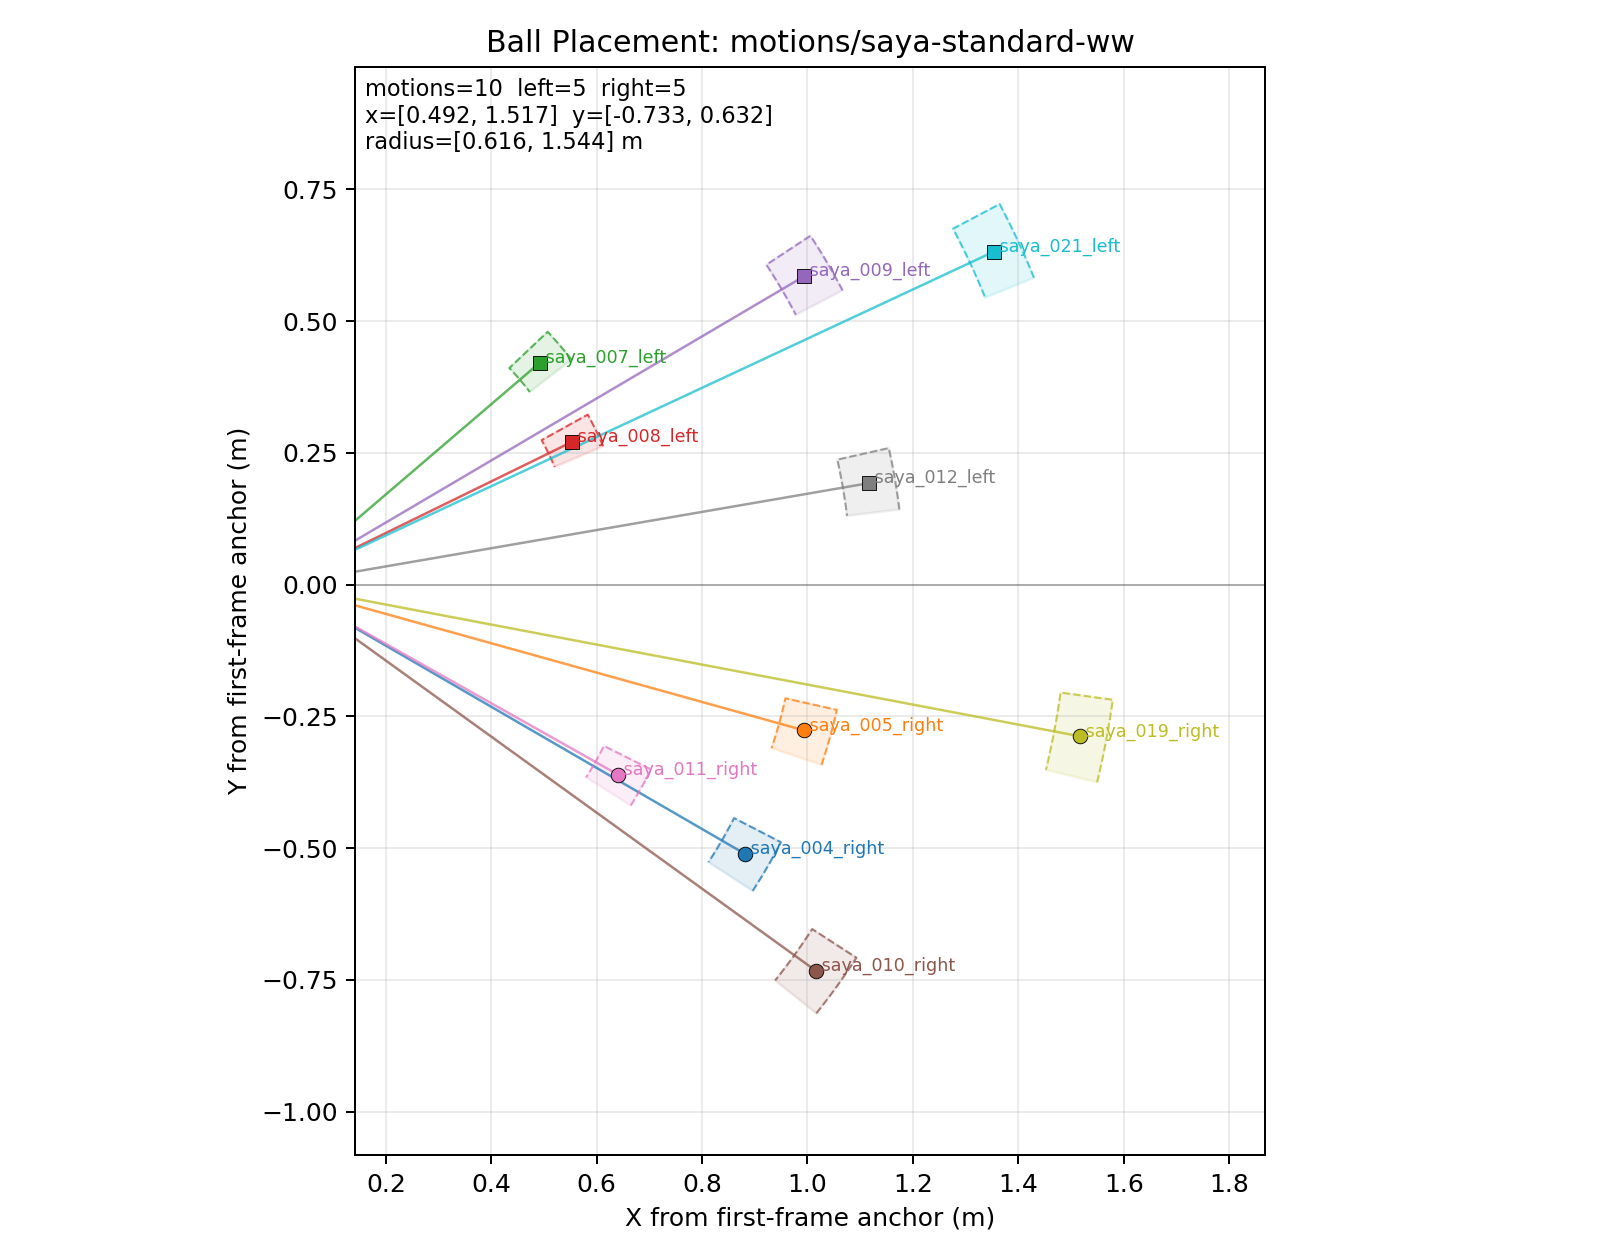
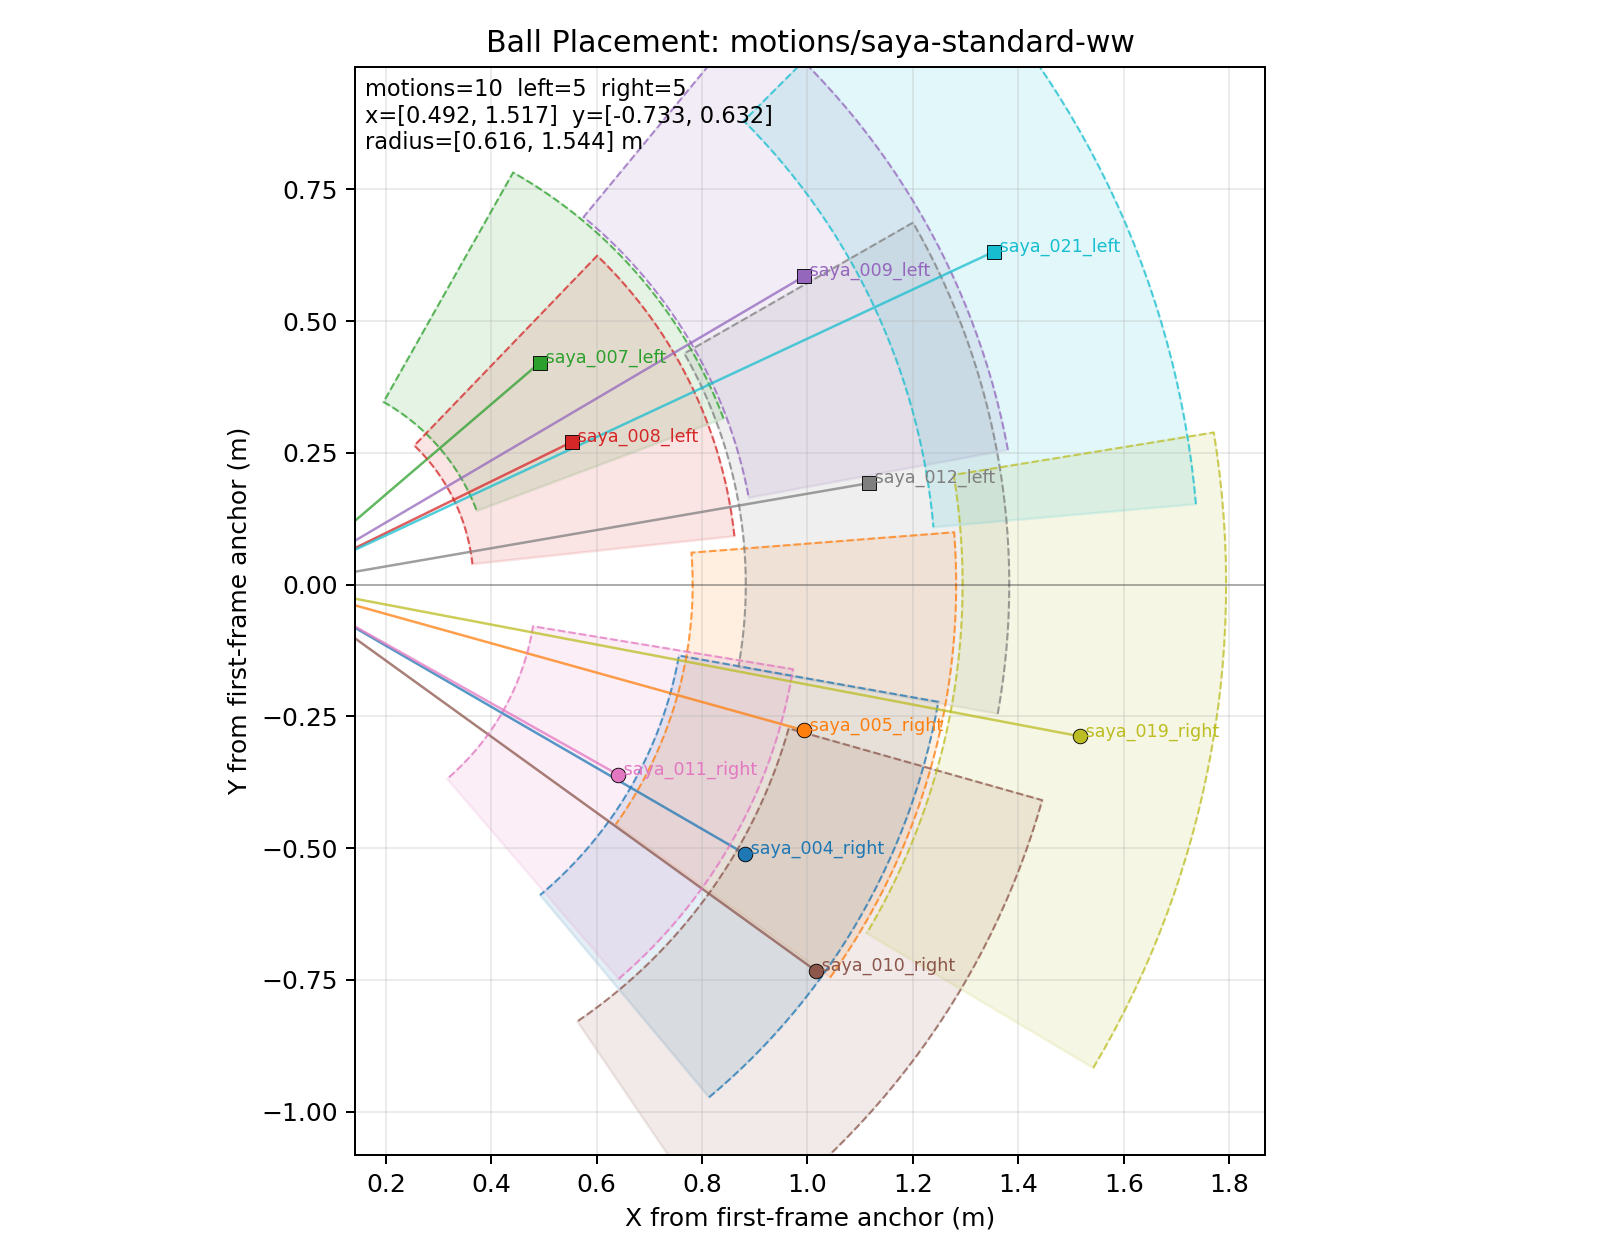
处理了saya的球随机化范围太小的问题，然后对deploy mujoco进行了mlp的兼容处理

Changed region(s): [[0.216, 0.031, 0.7716, 0.8667]]

diff --git a/scripts/deploy_mujoco_soccer.py b/scripts/deploy_mujoco_soccer.py
@@ -908,6 +908,12 @@ class MujocoSoccerSim2Sim:
         goal_local = self._compute_goal_local(root_pos_w, root_quat_w, ball_pos_w)
         return ball_local, goal_local, root_pos_w.astype(np.float32), root_quat_w.astype(np.float32)
 
+    def _motion_phase_sin_cos(self) -> np.ndarray:
+        denom = max(float(self.current_motion_length - 1), 1.0)
+        phase = np.clip(float(self.time_step) / denom, 0.0, 1.0)
+        angle = 2.0 * math.pi * phase
+        return np.array([math.sin(angle), math.cos(angle)], dtype=np.float32)
+
     def _build_obs(self) -> np.ndarray:
         ref = self._current_reference()
         root_pos_w, root_quat_w = self._get_soccer_obs_world()
@@ -935,6 +941,7 @@ class MujocoSoccerSim2Sim:
         self.current_goal_local = goal_local.astype(np.float32).copy()
         term_map["target_point_pos"] = ball_local.astype(np.float32)
         term_map["target_destination_pos_local"] = goal_local.astype(np.float32)
+        term_map["motion_phase"] = self._motion_phase_sin_cos()
         # term_map["target_destination_pos_local"] = np.array([5.0, 0.0, -0.48], dtype=np.float32)
 
         obs_terms: list[np.ndarray] = []

diff --git a/scripts/plot_motion_ball_placement.py b/scripts/plot_motion_ball_placement.py
@@ -148,9 +148,9 @@ def main():
     parser.add_argument("--left-foot-body", default="left_ankle_roll_link")
     parser.add_argument("--right-foot-body", default="right_ankle_roll_link")
     parser.add_argument("--contact-phase", type=float, default=0.9)
-    parser.add_argument("--radius-min-offset", type=float, default=-0.05)
-    parser.add_argument("--radius-max-offset", type=float, default=0.05)
-    parser.add_argument("--arc-angle", type=float, default=0.05, help="Angular randomization in radians.")
+    parser.add_argument("--radius-min-offset", type=float, default=-0.25)
+    parser.add_argument("--radius-max-offset", type=float, default=0.25)
+    parser.add_argument("--arc-angle", type=float, default=math.pi / 9, help="Angular randomization in radians.")
     args = parser.parse_args()
 
     output = args.output if args.output is not None else args.motion_dir / "ball_placement.png"

diff --git a/source/whole_body_tracking/soccer/tasks/tracking/config/saya_29dof/soccer_flat_env_cfg.py b/source/whole_body_tracking/soccer/tasks/tracking/config/saya_29dof/soccer_flat_env_cfg.py
@@ -39,8 +39,8 @@ def _apply_saya_soccer_overrides(cfg) -> None:
     cfg.commands.motion.pose_range["yaw"] = (-math.pi, math.pi)
     cfg.commands.motion.rotate_soccer_targets_with_root_yaw = True
     cfg.commands.motion.curve_offset_range = {
-        "radius": (-0.05, 0.05),
-        "arc_angle": 0.05,
+        "radius": (-0.25, 0.25),
+        "arc_angle": math.pi / 9,
         "height": 0.11,
     }
     # if hasattr(cfg.rewards, "motion_global_anchor_ori"):
